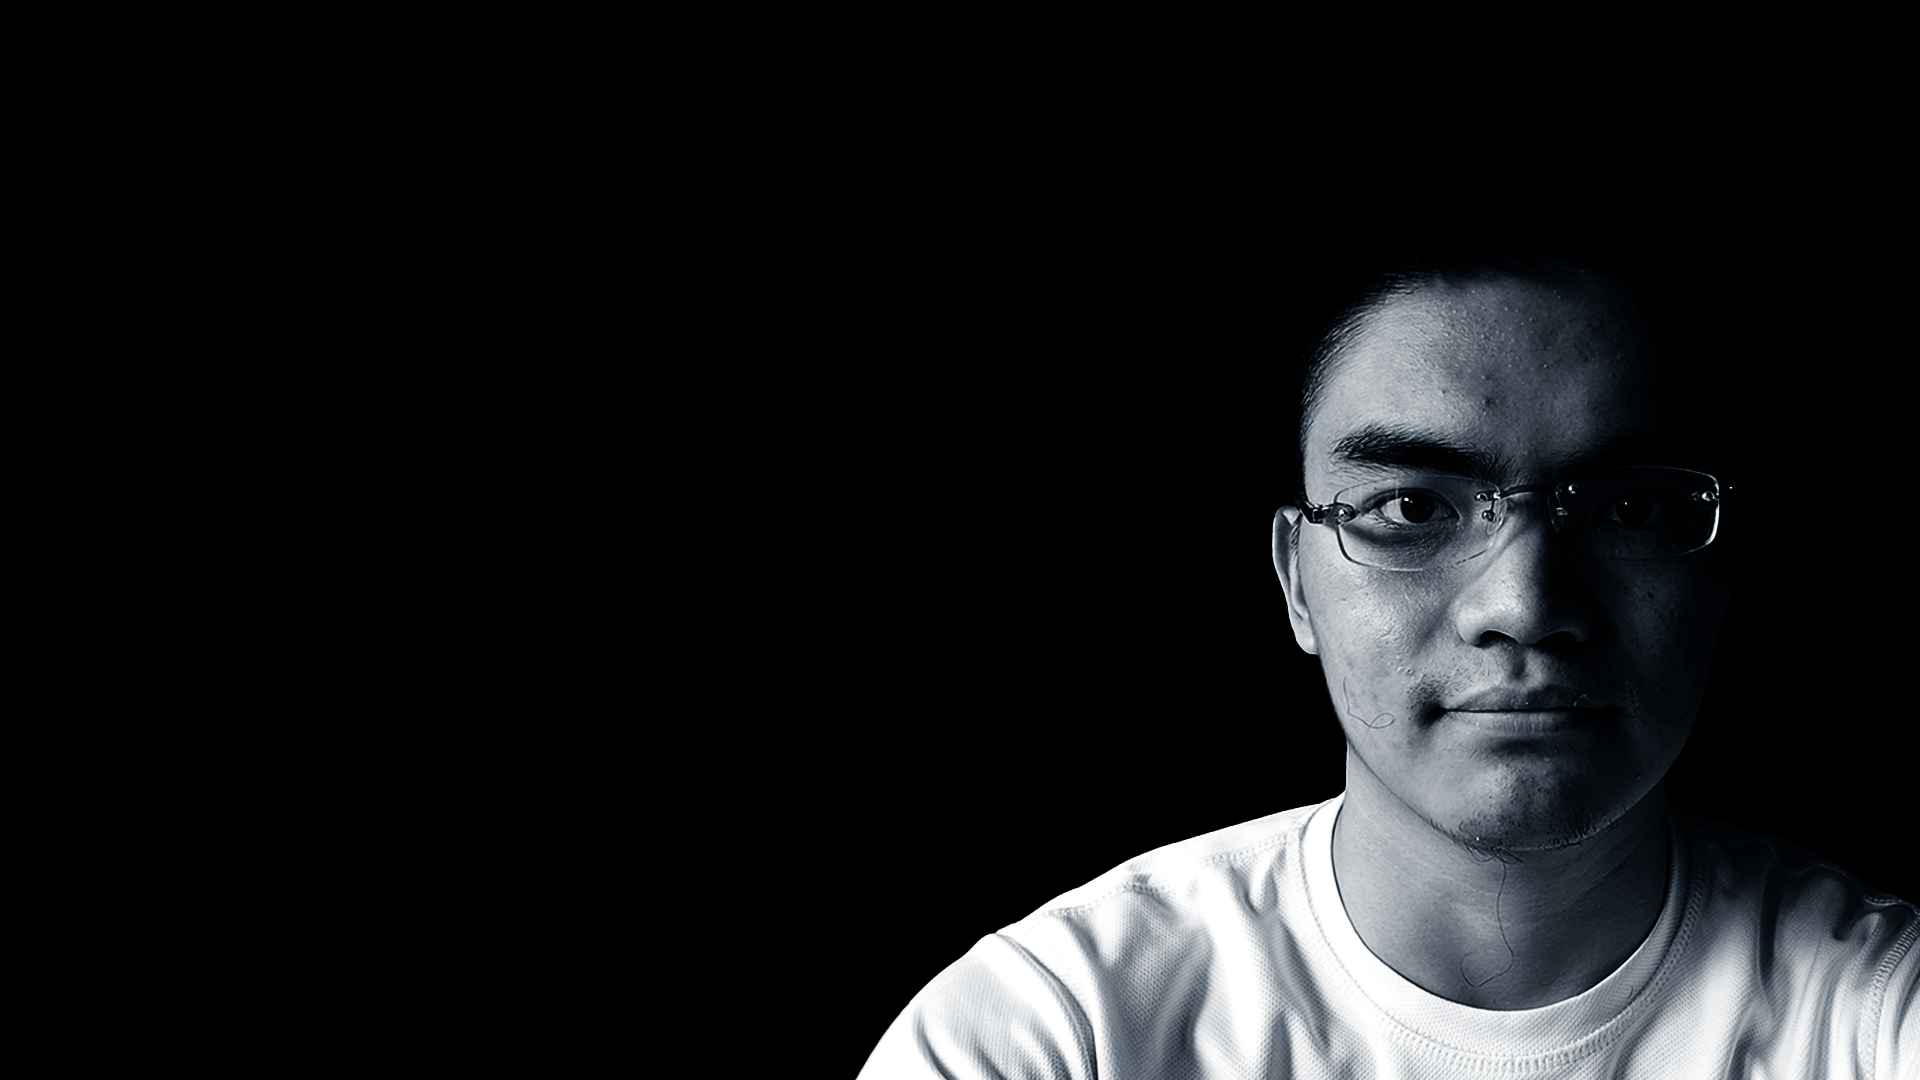
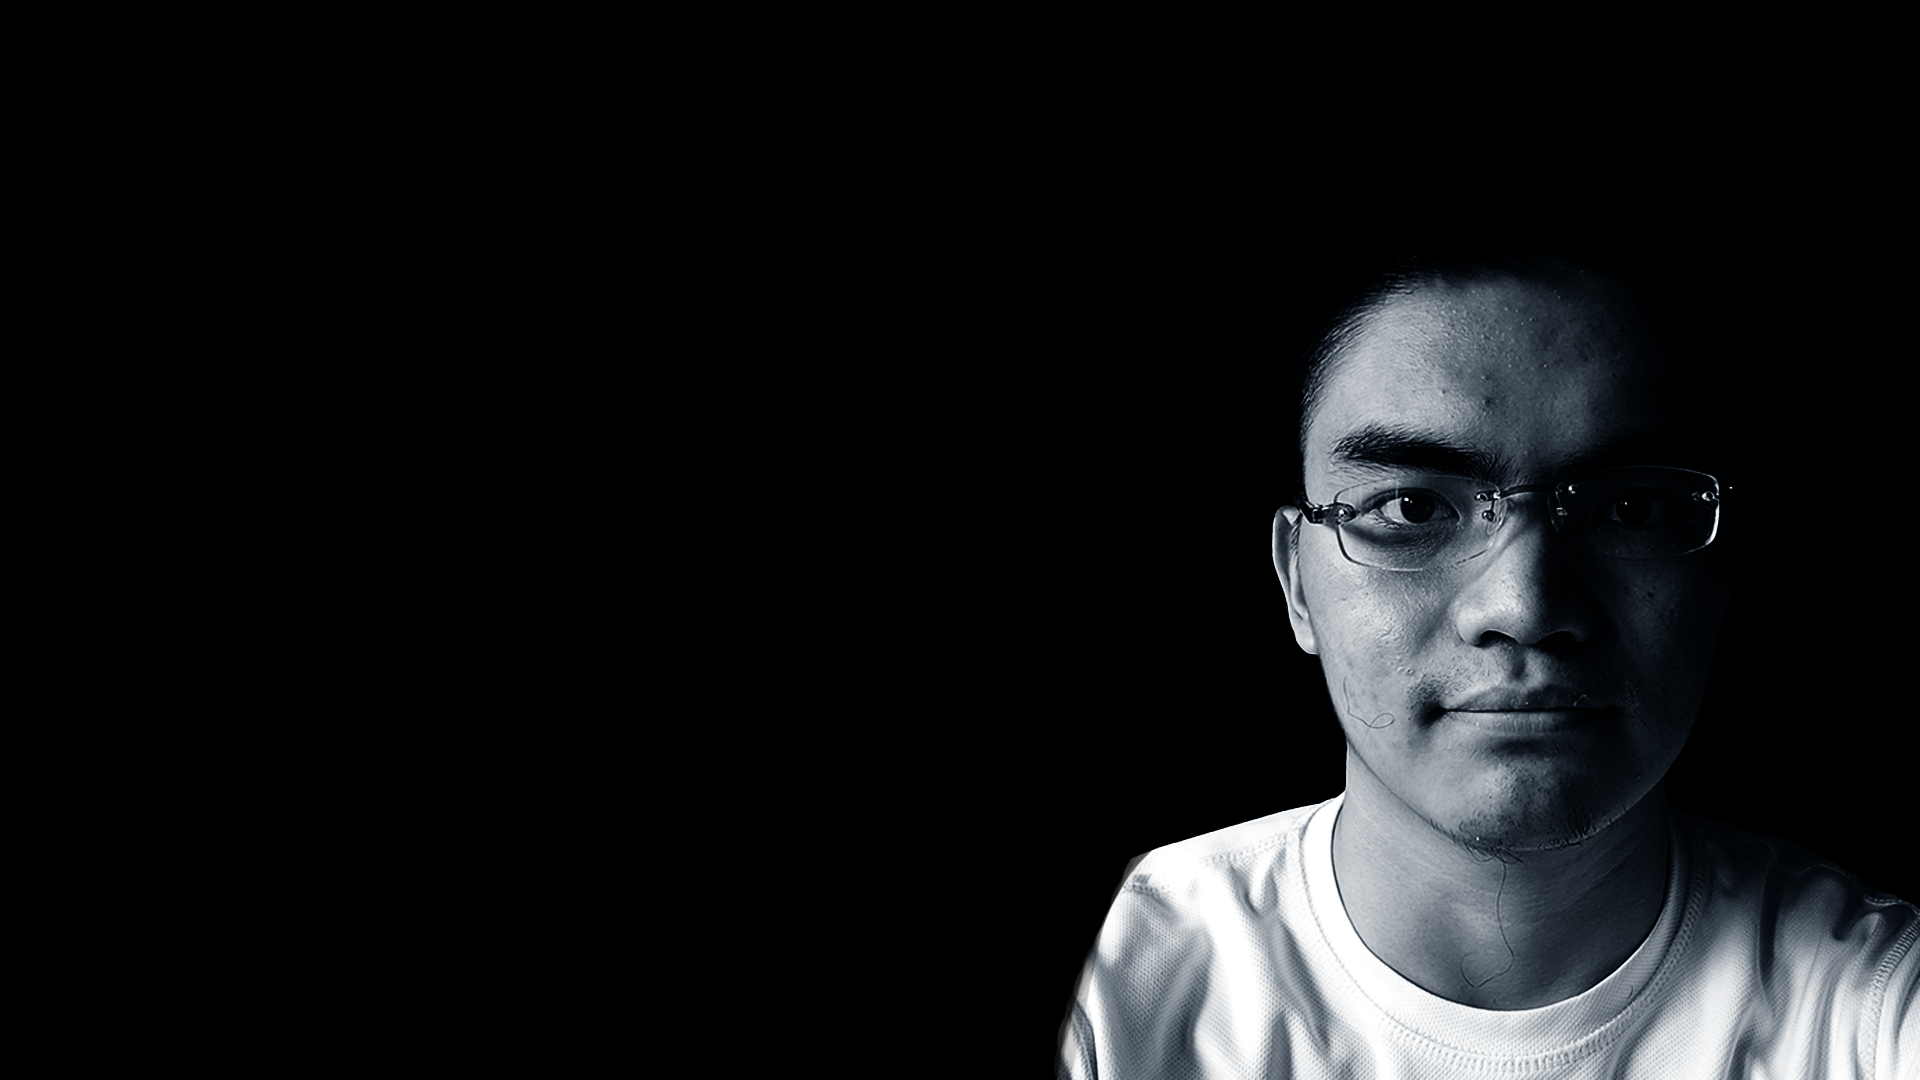
first

Changed region(s): [[0.4375, 0.7944, 0.5938, 1.0]]

diff --git a/css/style.css b/css/style.css
@@ -85,7 +85,7 @@ section {
   display: flex;
   align-items: center;
   padding: 0 9%;
-  background: url("/img/Homes3.png") no-repeat;
+  background: url("/img/homes.png") no-repeat;
   background-size: cover;
   background-position: center;
 }
@@ -501,6 +501,12 @@ span {
   transform: translateX(-50%);
 }
 
+.skills .skills-row .title {
+  display: inline-block;
+  left: 50%;
+  transform: translateX(-50%);
+}
+
 .skills .skills-row {
   display: flex;
   flex-wrap: wrap;
@@ -591,7 +597,8 @@ span {
   width: 70%;
 }
 
-.project {
+.project .heading,
+.project .project1 {
   position: relative;
   display: inline-block;
   min-height: auto;
@@ -600,16 +607,12 @@ span {
 
 .project h2 {
   position: relative;
-  display: inline-block;
+  display: flex;
+  align-items: center;
   left: 50%;
   transform: translateX(-50%);
 }
 
-.project1 img {
-  height: auto;
-  width: 100%;
-  box-shadow: black;
-}
 .footer {
   display: flex;
   justify-content: space-between;
@@ -669,7 +672,7 @@ span {
   position: absolute;
   top: 0;
   right: 0;
-  width: 110%;
+  width: 100%;
   height: 100%;
   background: var(--bg-color);
   z-index: 99;
@@ -705,11 +708,16 @@ section:nth-child(odd) .animate-scroll,
   width: 105%;
 }
 
+.project .project1 .animate-scroll {
+  width: 105%;
+}
+
 .about.show-animate .animate.scroll,
 .education.show-animate .animate.scroll,
 .education.show-animate .education-box .animate.scroll,
 .skills.show-animate .animate.scroll,
 .project.show-animate .animate.scroll,
+.project1.img.show-animate .animate.scroll,
 .footer.show-animate .animate.scroll {
   transition-delay: calc(0.3s * var(--i));
   width: 0;
@@ -804,6 +812,8 @@ section:nth-child(odd) .animate-scroll,
     font-size: 2rem;
     margin: 3rem 0;
     transform: translateX(-20rem);
+    transition: 0.25s ease;
+    transition-delay: 0s;
   }
 
   .navbar.active a {
@@ -813,8 +823,12 @@ section:nth-child(odd) .animate-scroll,
 
   .home-imgHover {
     pointer-events: none;
-    background: var(--bg-color);
+    background: var(--bg-black);
     opacity: 0.6;
+  }
+  .project1 img {
+    width: 100%;
+    height: 100%;
   }
 }
 

diff --git a/index.html b/index.html
@@ -64,6 +64,9 @@
         <a href="https://www.instagram.com/retrojmark/"
           ><i class="bx bxl-instagram"></i
         ></a>
+        <a href="https://www.fiverr.com/jefanmarkus?public_mode=true"
+          ><i class="bx bxs-business"></i
+        ></a>
         <a href="https://www.linkedin.com/in/jefan-markus-2a2b80229/"
           ><i class="bx bxl-linkedin-square"></i
         ></a>
@@ -189,7 +192,7 @@
       </h2>
       <div class="skills-row">
         <div class="skills-colum">
-          <h3 class="title">
+          <h3 class="title" id="title">
             Coding Skills<span class="animate scroll" style="--i: 2"></span>
             <span class="animate scroll" style="--i: 1"></span>
           </h3>
@@ -231,7 +234,7 @@
         ><span class="animate scroll" style="--i: 1"></span>
       </h2>
       <div class="project1">
-        <img src="project/WebPort1.jpg" /><span
+        <img src="project/WebPort1.jpg" class="gambar1" /><span
           class="animate scroll"
           style="--i: 2"
         ></span>
@@ -247,7 +250,7 @@
 
       <div class="footer-iconTop">
         <a href="#"><i class="bx bxs-up-arrow"></i></a
-        ><span class="animate scroll" style="--i: 2"></span>
+        ><span class="animate scroll" style="--i: 3"></span>
       </div>
     </footer>
 
